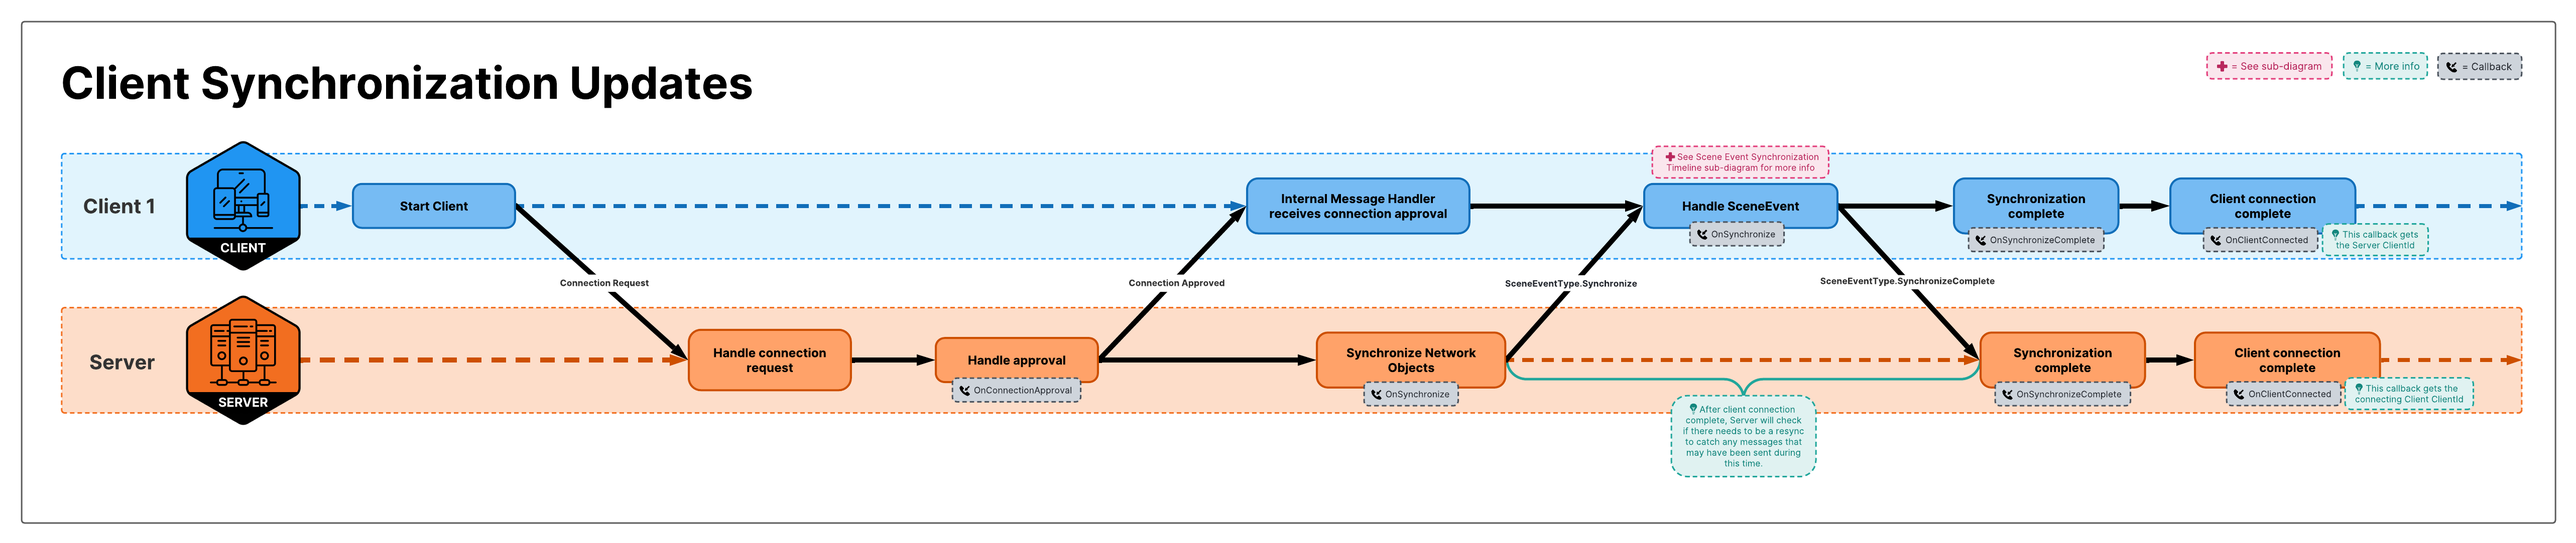
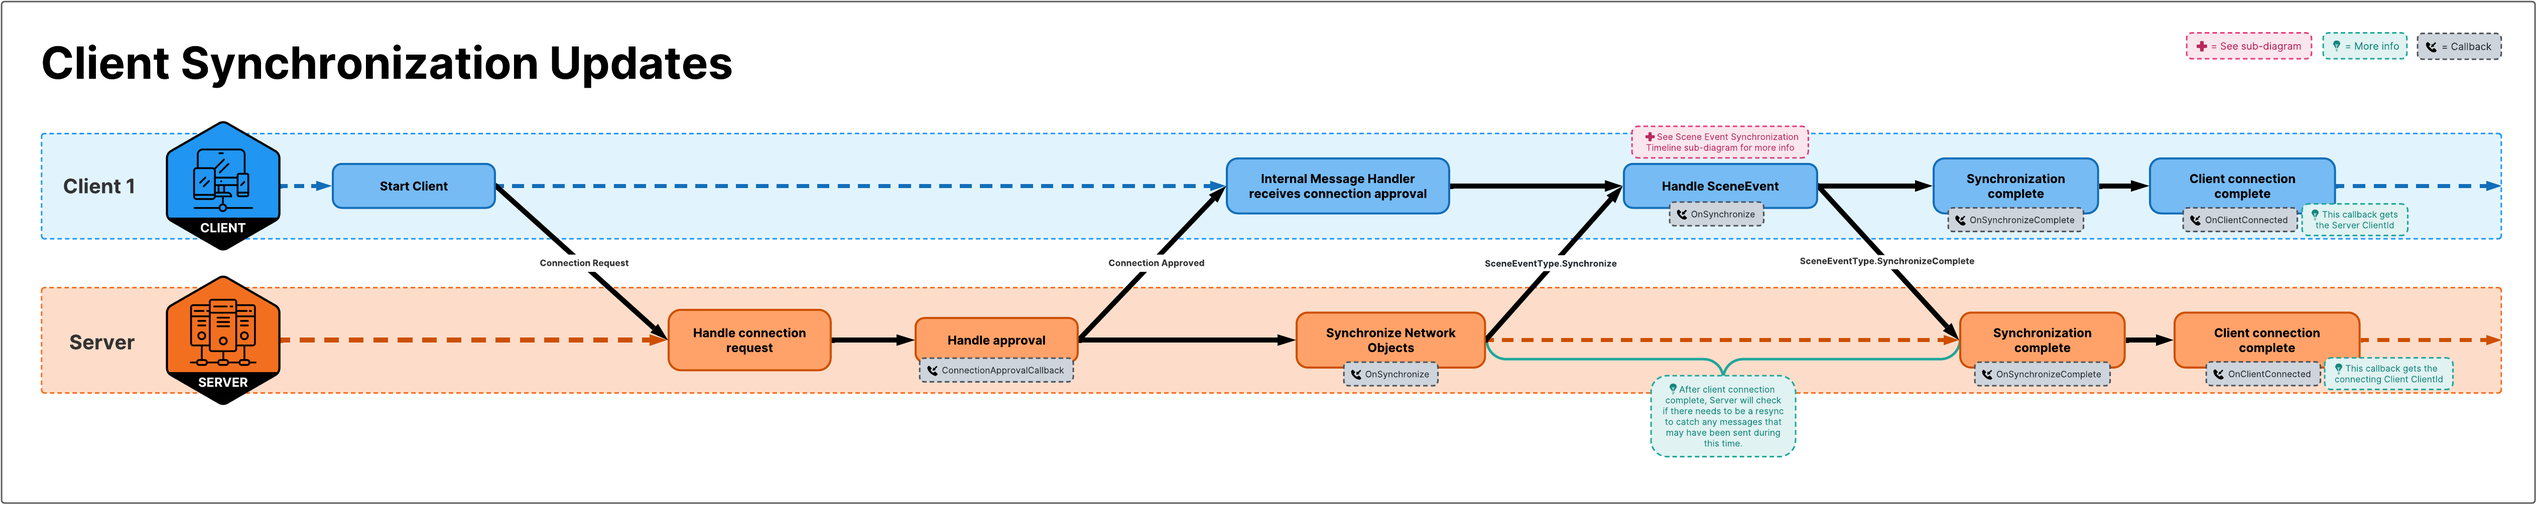
update
Almost finished with Timing Considerations (check-point commit).
Also corrected a spelling mistake in the pipeline-usage document

Changed region(s): [[0.0, 0.0, 1.0, 1.0], [0.0, 0.0924, 0.3106, 0.1847]]

diff --git a/docs/basics/scenemanagement/timing-considerations.md b/docs/basics/scenemanagement/timing-considerations.md
@@ -8,24 +8,94 @@ sidebar_label: Timing Considerations
 If you have not already read the [Using NetworkSceneManager](using-networkscenemanager.md) and/or [Scene Events](scene-events.md) sections, it is highly recommended to do so before proceeding.
 :::
 
-## Scene Management Timing (WIP)
+## Introduction
+Netcode for GameObjects handles many of the more complicated aspects of scene management.  This section is tailored towards those who want to better understand the client-server communication sequence for scene events as they occur over time. 
+In each diagram, you will see two types of black arrows:
+- Horizontal arrows: Denotes a progression to the next state and/or event.
+- Diagonal arrows: Denotes a message being sent (server to client or vice versa).
+    - These arrows will have the name of the message being sent or the type of the scene event message being sent.
 
-Scene Event Synchronization: <br/>
+
+## Client Synchronization:
+The below diagram, Client Synchronization Updates, steps you through the entire client synchronization process from starting the client all the way to the client being fully synchronized and connected.  
+![image](images/ClientSyncUpdates.png)<br/>
+Above, we can see that the client will first send a connection request to the server that will process the request, handle the approval process via ConnectionApprovalCallback (if connection approval is enabled), and if approved the server will:
+- Send a connection approved message back to the client
+    - This only means the connection is approved, but the client is not yet synchronized.
+- Start a `SceneEventType.Synchronize` scene event
+    - Build the synchronization message ("Synchronize NetworkObjects") that will contain all of the
+    information a client will need to properly synchronize with the current netcode game session.
+    - Send the scene event message to the client
+
+:::info
+Throughout the integrated scene management sections, we have used the term "client synchronization period" to denote the time it takes a client to:
+- Receive the synchronization message
+- Process the synchronization message
+- Send the `SceneEventType.SynchronizeComplete` message back to the server<br/>
+If you look at the server portion of the timeline in the above diagram, the "client synchronization period" is everything that occurs within the green bracketed section between "Synchronize NetworkObjects" and "Synchronization" on the server-side.  On the client-side, it includes the time it takes to receive the `SceneEventType.Synchronize` message, "Handle (the) SceneEvent", and the time it takes for the server to receive the `SceneEventType.SynchronizeComplete` that is sent by the client once it has completed synchronizing.
+:::
+
+Upon receiving the synchronization event message, the client processes it, and when finished the client sends the `SceneEventType.SynchronizeComplete` scene event message.  The client-side will (within the same frame) invoke the following local `NetworkSceneManager` callbacks (if subscribed to):
+- `OnSceneEvent` with the scene event type being set to `SceneEventType.SynchronizeComplete`
+- `OnSynchronizeComplete`
+
+:::important
+Take note that after the client finishes processing the synchronization event, the server lags, in regards to when callbacks are triggered, behind the client. Typically this client-server latency is half RTT, and so you should be aware that just because a client has notified locally that it has finished there is a small period of time (commonly in the 10's to 100's of milliseconds) where the server is still unaware of the client having finished synchronizing.  
+:::
+
+### Client-Side Synchronization Timeline
+Now that we have covered the high-level synchronization process, we can dive a little deeper into what happens on the client side as it processes the synchronize message.  The below sub-diagram, "Scene Event Synchronization Timeline", provides you with a more detailed view of how the client processes the synchronize message:
 ![image](images/SceneEventSynchronizationTimeline.png)
+You can see that upon receiving the message, the client appears to be iterating over portions of the data included in the synchronize message.  This is primarily the asynchronous scene loading phase of the client synchronization process. This means the more scenes loaded, the more a client will be required to load which means the Client Synchronization Period is directly proportional to the number of scene being loaded and the size of each scene being loaded.  Once all scenes are loaded, the client will then locally spawn all `NetworkObject`s.  As a final step, the client sends the list of all `NetworkObjectId`s it spawned as part of its `SceneEventType.SynchronizeComplete` scene event message so the server can determine if it needs to resynchronize the client with a list of any `NetworkObjects` that might have despawned during the Client Synchronization Period.
 
+## Loading Scenes
 
-Client Synchronization Updates: <br/>
-![image](images/ClientSyncUpdates.png)
+### LoadSceneMode.Additive
+Below is a timeline diagram for a server and two clients.  The big take-away from the below diagram is that the server always precedes all clients when it comes to beginning the scene loading event and loading the scene itself.  Only, when the server has finished loading the scene and spawning `NetworkObject`s does it send the scene loading event message to the clients. 
 
-Loading Scenes Additively (`SceneLoadMode.Additive`): <br/>
+Another point of interest in the below diagram is how Client 1 receives the scene loading event, processes it, and then responds with a `SceneEventType.LoadComplete` scene event message before client 2. This delta between client 1 and client 2 represents the varying client-server latencies and further enforces the underlying concept behind the `SceneEventType.LoadEventCompleted` message.  Once a server has received all `SceneEventType.LoadComplete` messages from the connected clients, it will then broadcast the `SceneEventType.LoadEventCompleted` message to all connected clients.  At this point, we can consider the scene loading event (truly) complete and all connected clients are able to receive and process netcode messages.
+
 ![image](images/LoadingAdditiveScene.png)
+
+:::caution
+While a client can start sending the server messages (including NetworkVariable changes) upon local `SceneEventType.LoadComplete` event notifications, under more controlled testing environments where the network being used has very little to no latency (i.e. using loopback with multiple instances running on the same system or using your LAN), this approach will not expose latency related issues. Even though the timing might "work out" under controlled low latency conditions you could still run into edge case scenarios where if a client approaches or exceeds a 500ms RTT latency you could potentially run into issues.
+:::
+
+:::tip
+It is recommended that if your project's design requires that one or more `NetworkBehaviour`s immediately send any form of client to server message (i.e. changing a `NetworkVariable`, sending an RPC, sending a custom message, etc.) upon a client being locally notified of a `SceneEventType.LoadComplete` then you should test with artificial/simulated network conditions.  
+[Learn More About Simulating NetworkConditions Here](../../tutorials/testing/testing_with_artificial_conditions.md)
+:::
+
+### LoadSceneMode.Single
+
+![image](images/SwitchingToNewSceneLight.png)
+
+### Load New Scene Timeline (Sub-Diagram)
+Both scene loading diagrams (Additive and Single) refer to the below sub-diagram that provides additional details of the scene loading process.
+:::important
+When looking at the below sub-diagram, both single and additive scene loading modes use close to the exact same flow with the exception that additively loaded scenes only flow through the four middle steps that are outlined by the green dashed lines.  When loading a scene additively, no other scenes are unloaded nor are any NetworkObjects moved into the DDoL temporarily. This setting, by default, is true for dynamically spawned `NetworkObject`s unless otherwise specified when using `NetworkObject.Spawn`, `NetworkObject.SpawnWithOwnership`, or `NetworkObject.SpawnAsPlayerObject`.  In-scene placed `NetworkObject`'s, by default, will be destroyed with the scene that instantiated them.  At any point, within a `NetworkBehaviour` you can change the `NetworkObject.DestroyWithScene` property.
+:::
+
+![image](images/LoadNewSceneTimeline.png)
+**Load New Scene Additively**
+1. Starts loading the scene
+2. During the scene loading process, in-scene placed `NetworkObject`s are instantiated and their `Awake` and then `Start` methods are invoked (in that order).
+3. Scene loading completes. 
+4. All in-scene placed `NetworkObject`s are spawned.
+:::caution
+Step #3 above signifies that the `UnityEngine.SceneManagement.SceneManager` has finished loading the scene. If you subscribe to the `UnityEngine.SceneManagement.SceneManager.sceneLoaded` event, then step #3 would happen on the same frame that your subscribed handler is invoked. **Do not use this event** as a way to determine that the current Load SceneEvent has completed. <br/> <center>_Doing so will result in unexpected results that most commonly are associated with "yet-to-be-spawned" (locally) `NetworkObject`'s and/or their related `NetworkBehaviour` dependencies._</center> When using Netcode Integrated SceneManagement, it is recommended to use the `NetworkSceneManager` scene events to determine when the "netcode scene loading event" has completed locally or for all clients.
+:::
+
+
+**Load New Scene Single (a.k.a "Scene Switch")**
+1. All `NetworkObjects` that have their `DestroyWithScene` property set to `false` are migrated into the DDoL (temporarily).
+2. All currently loaded scenes are unloaded.  If you loaded any scenes additively, they will be automatically unloaded.
+3. _(refer to the 4 steps outlined above)_
+4. After any newly instantiated `NetworkObject`s are spawned, the newly loaded scene is set as the currently active scene and then the `NetworkObject`s that were previously migrated into th DDoL (from step 1) are now migrated into the newly loaded scene.
+
 
 Unloading Additively Loaded Scenes: <br/>
 ![image](images/UnloadingAdditiveScene.png)<br/>
-
-Switching Scenes (`SceneLoadMode.Single`): <br/>
-![image](images/LoadNewSceneTimeline.png)
-![image](images/SwitchingToNewSceneLight.png)
 
 Unloading Scenes Timeline: <br/>
 ![image](images/UnloadingSceneTimeline.png)

diff --git a/transport/pipelines-usage.md b/transport/pipelines-usage.md
@@ -68,7 +68,7 @@ The simulator pipeline stage could be added on either the client or server to si
 
 ### Use the simulator
 
-No further configuration is needed after configuring the pipline. It can be set up when the driver is created, as follows:
+No further configuration is needed after configuring the pipeline. It can be set up when the driver is created, as follows:
 
 ```csharp
 m_DriverHandle = NetworkDriver.Create(new SimulatorUtility.Parameters {MaxPacketSize = NetworkParameterConstants.MTU, MaxPacketCount = 30, PacketDelayMs = 25, PacketDropPercentage = 10});
